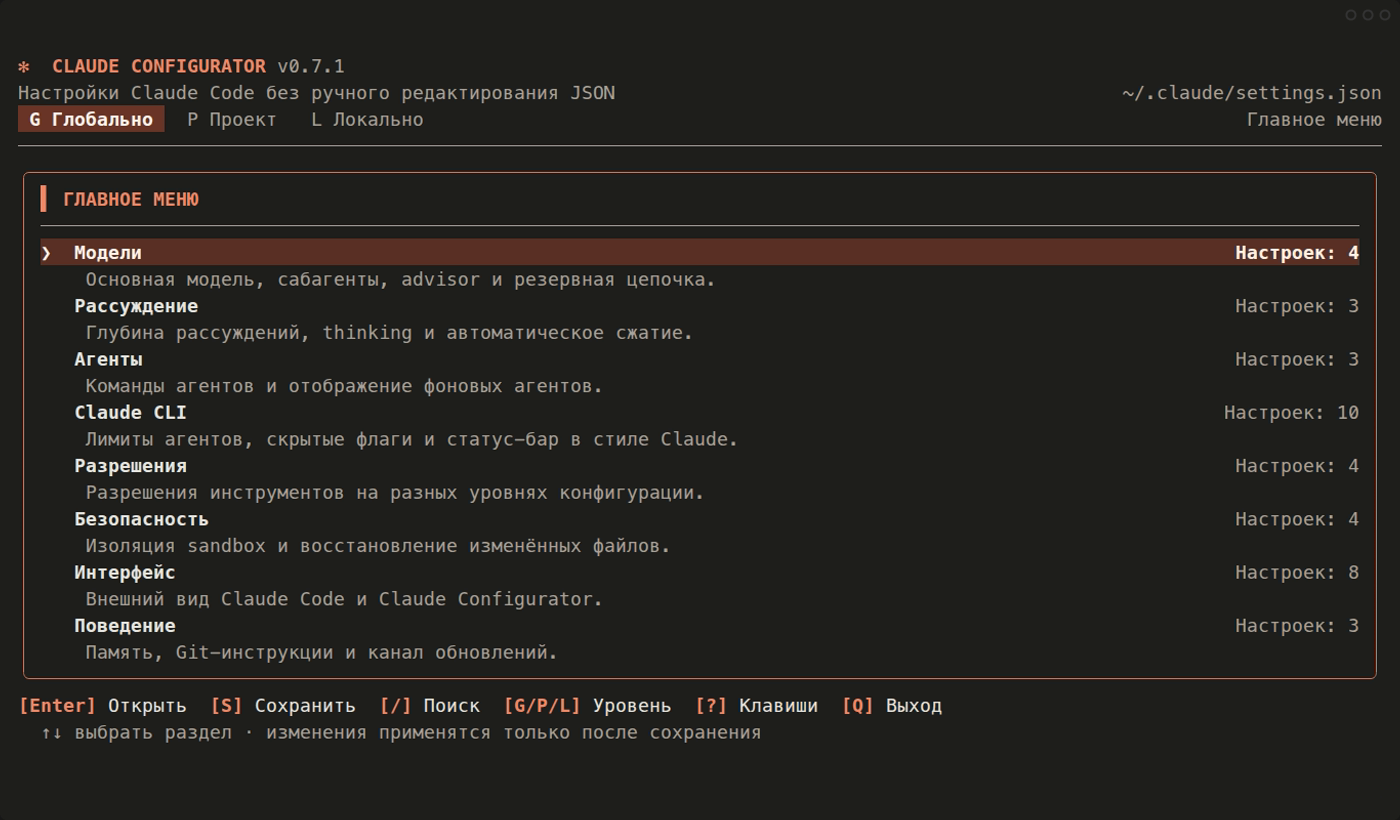
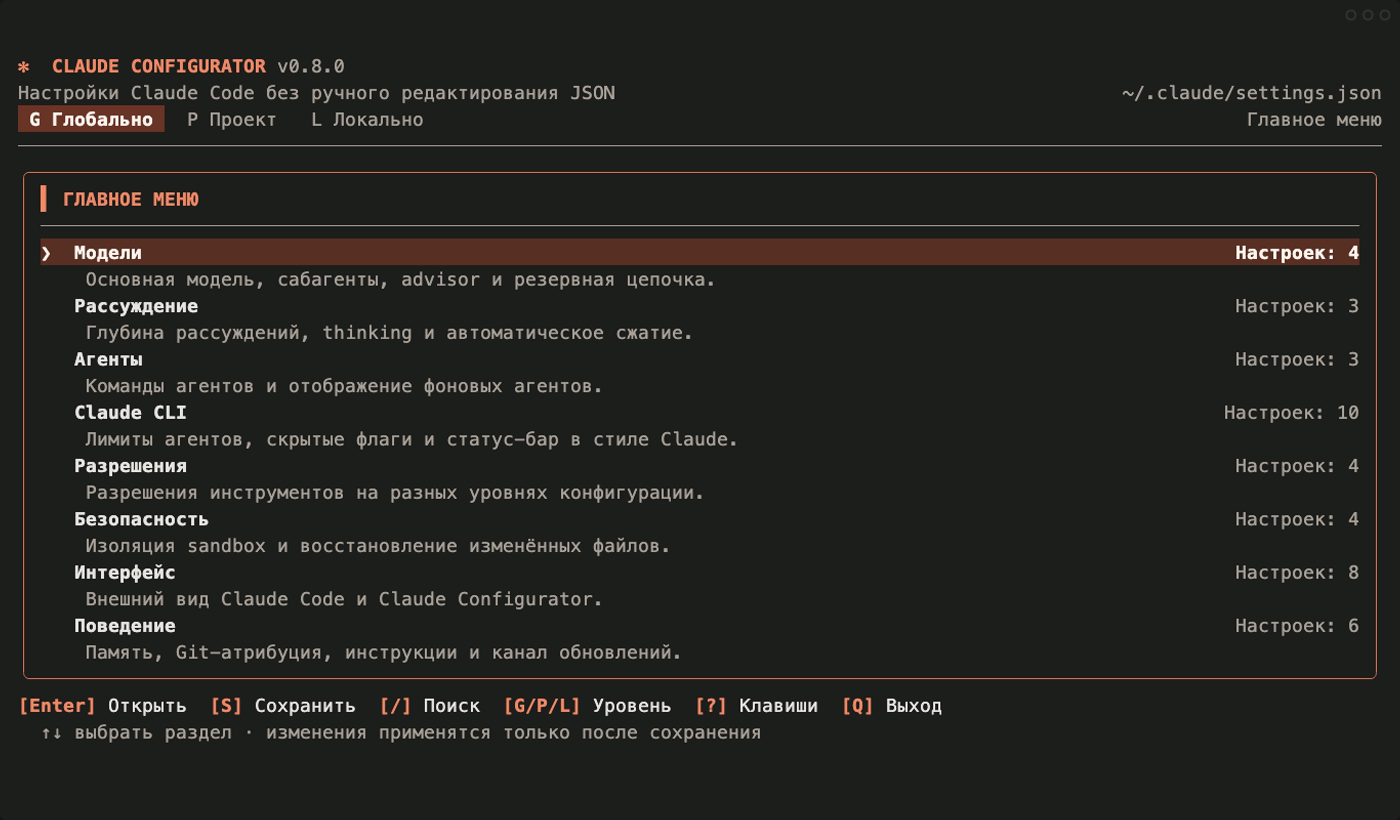
feat: add git attribution controls

diff --git a/internal/tui/locale.go b/internal/tui/locale.go
@@ -166,6 +166,9 @@ func (m *Model) optionLabel(specID, option string) string {
 		}
 		return m.tr("option.custom_value")
 	}
+	if option == "" && strings.HasPrefix(specID, "attribution-") {
+		return m.tr("option.attribution.hidden")
+	}
 	if specID == "theme" && strings.HasPrefix(option, "custom:") {
 		return m.tr("option.theme.custom", strings.TrimPrefix(option, "custom:"))
 	}
@@ -255,7 +258,7 @@ var translations = map[uiLanguage]map[string]string{
 		"category.Permissions.description": "Define tool permissions and rules across configuration scopes.",
 		"category.Safety.description":      "Manage sandbox isolation and file recovery safeguards.",
 		"category.Interface.description":   "Adjust Claude Code and Claude Configurator presentation.",
-		"category.Behavior.description":    "Tune memory, Git instructions, and the update channel.",
+		"category.Behavior.description":    "Tune memory, Git attribution, instructions, and the update channel.",
 
 		"option.inherit":                           "Default / inherit",
 		"option.custom_model":                      "Custom model ID…",
@@ -289,6 +292,7 @@ var translations = map[uiLanguage]map[string]string{
 		"option.statusline-theme.ansi":             "ANSI · terminal palette",
 		"option.statusline-theme.mono":             "Monochrome · no color",
 		"option.statusline-theme.custom":           "Custom command…",
+		"option.attribution.hidden":                "Hidden",
 		"option.new-init.1":                        "Enabled",
 		"option.permission-allow.npm-test":         "Run npm tests",
 		"option.permission-allow.go-test":          "Run all Go tests",
@@ -427,7 +431,7 @@ var translations = map[uiLanguage]map[string]string{
 		"category.Permissions.description": "Разрешения инструментов на разных уровнях конфигурации.",
 		"category.Safety.description":      "Изоляция sandbox и восстановление изменённых файлов.",
 		"category.Interface.description":   "Внешний вид Claude Code и Claude Configurator.",
-		"category.Behavior.description":    "Память, Git-инструкции и канал обновлений.",
+		"category.Behavior.description":    "Память, Git-атрибуция, инструкции и канал обновлений.",
 
 		"option.inherit":                           "По умолчанию / наследовать",
 		"option.custom_model":                      "Другая модель…",
@@ -461,6 +465,7 @@ var translations = map[uiLanguage]map[string]string{
 		"option.statusline-theme.ansi":             "ANSI · палитра терминала",
 		"option.statusline-theme.mono":             "Монохром · без цветов",
 		"option.statusline-theme.custom":           "Своя команда…",
+		"option.attribution.hidden":                "Скрыто",
 		"option.new-init.1":                        "Включён",
 		"option.permission-allow.npm-test":         "Запускать npm-тесты",
 		"option.permission-allow.go-test":          "Запускать все Go-тесты",
@@ -618,6 +623,9 @@ var translations = map[uiLanguage]map[string]string{
 		"spec.reduced-motion.label":      "Меньше анимации",
 		"spec.auto-memory.label":         "Автопамять",
 		"spec.git-instructions.label":    "Git-инструкции",
+		"spec.attribution-commit.label":  "Подпись в коммитах",
+		"spec.attribution-pr.label":      "Подпись в pull request",
+		"spec.session-url.label":         "Ссылка на сессию",
 		"spec.updates.label":             "Канал обновлений",
 
 		"spec.main-model.description":          "Модель для новых сессий Claude Code. Стабильные алиасы автоматически следуют версии вашего провайдера.",
@@ -659,6 +667,9 @@ var translations = map[uiLanguage]map[string]string{
 		"spec.reduced-motion.description":      "Уменьшить необязательную терминальную анимацию.",
 		"spec.auto-memory.description":         "Разрешить Claude Code сохранять полезный контекст проекта.",
 		"spec.git-instructions.description":    "Добавлять встроенные инструкции рабочего процесса Git.",
+		"spec.attribution-commit.description":  "Атрибуция Claude в сообщениях Git-коммитов, включая трейлер Co-Authored-By.",
+		"spec.attribution-pr.description":      "Атрибуция Claude в описаниях pull request, например Generated with Claude Code.",
+		"spec.session-url.description":         "Добавлять ссылку на сессию Claude в коммиты и pull request из cloud или Remote Control.",
 		"spec.updates.description":             "Канал автоматических обновлений Claude Code.",
 
 		"spec.main-model.purpose":          "Определяет баланс качества, скорости и стоимости в обычной работе без отдельного флага при каждом запуске.",
@@ -700,6 +711,9 @@ var translations = map[uiLanguage]map[string]string{
 		"spec.reduced-motion.purpose":      "Повышает доступность и делает медленные или удалённые терминалы спокойнее.",
 		"spec.auto-memory.purpose":         "Переносит полезные знания о проекте в следующие сессии без повторного объяснения.",
 		"spec.git-instructions.purpose":    "Оставьте включённым, если проект не заменяет встроенный Git-процесс собственными правилами.",
+		"spec.attribution-commit.purpose":  "Оставьте значение унаследованным либо полностью скройте подпись Claude в коммитах.",
+		"spec.attribution-pr.purpose":      "Оставьте значение унаследованным либо полностью скройте подпись Claude в описаниях pull request.",
+		"spec.session-url.purpose":         "Отключите, если трейлеры коммитов и описания pull request не должны раскрывать ссылку на сессию Claude.",
 		"spec.updates.purpose":             "Stable предсказуемее; latest раньше получает новые функции и исправления Claude Code.",
 	},
 	languageZH: {
@@ -722,7 +736,7 @@ var translations = map[uiLanguage]map[string]string{
 		"category.Permissions.description": "定义不同配置层级的工具权限。",
 		"category.Safety.description":      "管理沙箱隔离和文件恢复保护。",
 		"category.Interface.description":   "调整 Claude Code 和 Claude Configurator 的显示。",
-		"category.Behavior.description":    "设置记忆、Git 指令和更新频道。",
+		"category.Behavior.description":    "设置记忆、Git 署名、指令和更新频道。",
 
 		"option.inherit":                           "默认 / 继承",
 		"option.custom_model":                      "自定义模型 ID…",
@@ -756,6 +770,7 @@ var translations = map[uiLanguage]map[string]string{
 		"option.statusline-theme.ansi":             "ANSI · 终端调色板",
 		"option.statusline-theme.mono":             "单色 · 无颜色",
 		"option.statusline-theme.custom":           "自定义命令…",
+		"option.attribution.hidden":                "隐藏",
 		"option.new-init.1":                        "已启用",
 		"option.permission-allow.npm-test":         "运行 npm 测试",
 		"option.permission-allow.go-test":          "运行全部 Go 测试",
@@ -913,6 +928,9 @@ var translations = map[uiLanguage]map[string]string{
 		"spec.reduced-motion.label":      "减少动画",
 		"spec.auto-memory.label":         "自动记忆",
 		"spec.git-instructions.label":    "Git 指令",
+		"spec.attribution-commit.label":  "提交署名",
+		"spec.attribution-pr.label":      "Pull request 署名",
+		"spec.session-url.label":         "会话链接署名",
 		"spec.updates.label":             "更新频道",
 
 		"spec.main-model.description":          "新 Claude Code 会话使用的模型。稳定别名会跟随提供商的最新可用版本。",
@@ -954,6 +972,9 @@ var translations = map[uiLanguage]map[string]string{
 		"spec.reduced-motion.description":      "减少非必要的终端动画。",
 		"spec.auto-memory.description":         "允许 Claude Code 自动保存有用的项目上下文。",
 		"spec.git-instructions.description":    "包含 Claude Code 内置的 Git 工作流说明。",
+		"spec.attribution-commit.description":  "添加到 Git 提交消息中的 Claude 署名，包括 Co-Authored-By trailer。",
+		"spec.attribution-pr.description":      "添加到 pull request 描述中的 Claude 署名，例如 Generated with Claude Code。",
+		"spec.session-url.description":         "在 cloud 或 Remote Control 会话创建的提交和 pull request 中附加 Claude 会话链接。",
 		"spec.updates.description":             "Claude Code 自动更新频道。",
 
 		"spec.main-model.purpose":          "决定日常工作的能力、速度和成本，无需每次启动都传入模型参数。",
@@ -995,6 +1016,9 @@ var translations = map[uiLanguage]map[string]string{
 		"spec.reduced-motion.purpose":      "提升可访问性，并让较慢或远程终端更平静。",
 		"spec.auto-memory.purpose":         "把有用的项目知识带到后续会话，无需重复说明。",
 		"spec.git-instructions.purpose":    "如果项目没有自己的 Git 工作流规则，建议保持开启。",
+		"spec.attribution-commit.purpose":  "保留继承的 Claude 默认值，或隐藏提交中的全部 Claude 署名。",
+		"spec.attribution-pr.purpose":      "保留继承的 Claude 默认值，或隐藏 pull request 描述中的全部 Claude 署名。",
+		"spec.session-url.purpose":         "如果提交 trailer 和 pull request 描述不应暴露 Claude 会话链接，请关闭此项。",
 		"spec.updates.purpose":             "stable 更可预测；latest 更早获得 Claude Code 新功能和修复。",
 	},
 }

diff --git a/internal/catalog/catalog.go b/internal/catalog/catalog.go
@@ -29,6 +29,7 @@ type Spec struct {
 	Danger        map[string]string
 	App           bool
 	Hidden        bool
+	DefaultTrue   bool
 }
 
 func (s Spec) Dangerous(value any) (string, bool) {
@@ -47,7 +48,7 @@ var Specs = []Spec{
 
 	{ID: "effort", Path: "effortLevel", Label: "Reasoning effort", Category: "Reasoning", Kind: Enum, Options: []string{"low", "medium", "high", "xhigh"}, Description: "Persistent adaptive reasoning effort for models that support it.", Purpose: "Lower levels answer faster and cheaper; higher levels spend more reasoning on difficult tasks."},
 	{ID: "always-thinking", Path: "alwaysThinkingEnabled", Label: "Extended thinking", Category: "Reasoning", Kind: Boolean, Description: "Enable extended thinking by default on supported models.", Purpose: "Improve complex reasoning when extra latency and token use are acceptable."},
-	{ID: "auto-compact", Path: "autoCompactEnabled", Label: "Auto compact", Category: "Reasoning", Kind: Boolean, Description: "Summarize and compact a conversation automatically near its context limit.", Purpose: "Prevent long sessions from stopping at the limit, with the trade-off that a summary can omit detail."},
+	{ID: "auto-compact", Path: "autoCompactEnabled", Label: "Auto compact", Category: "Reasoning", Kind: Boolean, DefaultTrue: true, Description: "Summarize and compact a conversation automatically near its context limit.", Purpose: "Prevent long sessions from stopping at the limit, with the trade-off that a summary can omit detail."},
 
 	{ID: "agent-teams", Path: "env.CLAUDE_CODE_EXPERIMENTAL_AGENT_TEAMS", Label: "Agent teams", Category: "Agents", Kind: Enum, Options: []string{"0", "1"}, Description: "Enable the experimental feature that lets several Claude agents coordinate on one task.", Purpose: "Use it when independent parts of a task can run in parallel; experimental behavior can still change."},
 	{ID: "teammate-mode", Path: "teammateMode", Label: "Teammate display", Category: "Agents", Kind: Enum, Options: []string{"in-process", "auto", "tmux", "iterm2"}, Description: "Choose where agent-team teammates are displayed.", Purpose: "Keep agents inline for a simple terminal, or use separate panes when you want to monitor each teammate."},
@@ -84,8 +85,11 @@ var Specs = []Spec{
 	{ID: "language", Path: "language", Label: "Claude response language", Category: "Interface", Kind: String, Description: "Preferred language for Claude responses, dictation, and terminal session titles.", Purpose: "Avoid repeating the same language instruction in every prompt."},
 	{ID: "reduced-motion", Path: "prefersReducedMotion", Label: "Reduced motion", Category: "Interface", Kind: Boolean, Description: "Reduce non-essential spinners, shimmer, and terminal animation.", Purpose: "Improve accessibility and make remote or slow terminals feel calmer."},
 
-	{ID: "auto-memory", Path: "autoMemoryEnabled", Label: "Auto memory", Category: "Behavior", Kind: Boolean, Description: "Allow Claude Code to save useful project context automatically.", Purpose: "Carry project knowledge into later sessions without explaining it again."},
-	{ID: "git-instructions", Path: "includeGitInstructions", Label: "Git instructions", Category: "Behavior", Kind: Boolean, Description: "Include Claude Code's built-in commit and pull-request workflow guidance.", Purpose: "Keep it unless the project already supplies its own Git workflow rules."},
+	{ID: "auto-memory", Path: "autoMemoryEnabled", Label: "Auto memory", Category: "Behavior", Kind: Boolean, DefaultTrue: true, Description: "Allow Claude Code to save useful project context automatically.", Purpose: "Carry project knowledge into later sessions without explaining it again."},
+	{ID: "git-instructions", Path: "includeGitInstructions", Label: "Git instructions", Category: "Behavior", Kind: Boolean, DefaultTrue: true, Description: "Include Claude Code's built-in commit and pull-request workflow guidance.", Purpose: "Keep it unless the project already supplies its own Git workflow rules."},
+	{ID: "attribution-commit", Path: "attribution.commit", Label: "Commit attribution", Category: "Behavior", Kind: Enum, Options: []string{""}, Description: "Claude attribution added to Git commit messages, including the Co-Authored-By trailer.", Purpose: "Choose the inherited Claude default or hide all Claude attribution from commits."},
+	{ID: "attribution-pr", Path: "attribution.pr", Label: "Pull request attribution", Category: "Behavior", Kind: Enum, Options: []string{""}, Description: "Claude attribution added to pull request descriptions, such as Generated with Claude Code.", Purpose: "Choose the inherited Claude default or hide all Claude attribution from pull request bodies."},
+	{ID: "session-url", Path: "attribution.sessionUrl", Label: "Session link attribution", Category: "Behavior", Kind: Boolean, DefaultTrue: true, Description: "Append a Claude session link to commits and pull requests created from cloud or Remote Control sessions.", Purpose: "Turn this off when commit trailers and pull request descriptions must not expose a Claude session link."},
 	{ID: "updates", Path: "autoUpdatesChannel", Label: "Update channel", Category: "Behavior", Kind: Enum, Options: []string{"stable", "latest"}, Description: "Choose the Claude Code automatic update channel.", Purpose: "Stable favors predictability; latest delivers new features and fixes sooner."},
 }
 

diff --git a/internal/tui/model_test.go b/internal/tui/model_test.go
@@ -280,6 +280,78 @@ func TestSubagentPickerCanResetToInheritanceAndSelectFable(t *testing.T) {
 	}
 }
 
+func TestAttributionCanBeHiddenAndReset(t *testing.T) {
+	m := testModel(t)
+	m.category = slices.Index(catalog.Categories(), "Behavior")
+	m.focus = 1
+
+	for _, item := range []struct {
+		id   string
+		path string
+	}{
+		{"attribution-commit", "attribution.commit"},
+		{"attribution-pr", "attribution.pr"},
+	} {
+		selectSpec(t, m, item.id)
+		press(m, special(tea.KeyEnter))
+		if m.screen != editChoice {
+			t.Fatalf("%s editor screen = %v, want editChoice", item.id, m.screen)
+		}
+		selectChoice(t, m, "")
+		press(m, special(tea.KeyEnter))
+		if got, ok := config.Get(m.drafts[config.Global], item.path); !ok || got != "" {
+			t.Fatalf("%s = %#v, %v; want stored empty string", item.path, got, ok)
+		}
+	}
+
+	selectSpec(t, m, "session-url")
+	press(m, special(tea.KeyEnter))
+	if got, ok := config.Get(m.drafts[config.Global], "attribution.sessionUrl"); !ok || got != false {
+		t.Fatalf("attribution.sessionUrl = %#v, %v; want false", got, ok)
+	}
+
+	diff := strings.Join(m.diffLines(), "\n")
+	for _, line := range []string{
+		`+ attribution.commit = ""`,
+		`+ attribution.pr = ""`,
+		`+ attribution.sessionUrl = false`,
+	} {
+		if !strings.Contains(diff, line) {
+			t.Fatalf("diff is missing %q: %s", line, diff)
+		}
+	}
+
+	press(m, textKey("s"))
+	press(m, special(tea.KeyEnter))
+	raw, err := os.ReadFile(m.workspace.Paths.Global)
+	if err != nil {
+		t.Fatal(err)
+	}
+	var saved map[string]any
+	if err := json.Unmarshal(raw, &saved); err != nil {
+		t.Fatal(err)
+	}
+	for _, path := range []string{"attribution.commit", "attribution.pr"} {
+		if got, ok := config.Get(saved, path); !ok || got != "" {
+			t.Fatalf("saved %s = %#v, %v", path, got, ok)
+		}
+	}
+	if got, ok := config.Get(saved, "attribution.sessionUrl"); !ok || got != false {
+		t.Fatalf("saved attribution.sessionUrl = %#v, %v", got, ok)
+	}
+
+	for _, id := range []string{"attribution-commit", "attribution-pr", "session-url"} {
+		selectSpec(t, m, id)
+		press(m, textKey("u"))
+	}
+	if _, ok := saved["attribution"]; !ok {
+		t.Fatal("test setup did not save the attribution object")
+	}
+	if _, ok := m.drafts[config.Global]["attribution"]; ok {
+		t.Fatal("resetting all attribution fields left an empty attribution object")
+	}
+}
+
 func TestThemeUsesBuiltInChoicePicker(t *testing.T) {
 	m := testModel(t)
 	themeDir := filepath.Join(filepath.Dir(m.workspace.Paths.Global), "themes")

diff --git a/internal/tui/model.go b/internal/tui/model.go
@@ -484,7 +484,7 @@ func (m *Model) choiceIncludesInherit() bool {
 }
 
 func (m *Model) toggle(spec catalog.Spec) {
-	current := false
+	current := spec.DefaultTrue
 	if value, _, ok := m.effective(spec); ok {
 		current, _ = value.(bool)
 	}
@@ -972,6 +972,9 @@ func (m *Model) diffLines() []string {
 func formatValue(value any) string {
 	switch typed := value.(type) {
 	case string:
+		if typed == "" {
+			return `""`
+		}
 		return typed
 	case bool:
 		if typed {

diff --git a/README.zh-CN.md b/README.zh-CN.md
@@ -115,6 +115,7 @@ claude-config --version
 - 为 `permissions.allow`、`ask` 和 `deny` 提供本地化预设，并在选择前
   显示准确的 Claude Code 规则。
 - 配置推理、代理、权限、沙箱、界面和行为。
+- 分别控制提交、pull request 和 Claude 会话链接署名。
 - 使用类型化控件设置嵌套代理深度、子代理总数/并发数、工具并发、
   交互式 `/init` 和共享任务列表。
 - Claude 风格状态栏分别显示主模型、子代理模型和 advisor，并显示剩余上下文、
@@ -184,6 +185,28 @@ gateway 或提供商特定部署；常规模型选择不会打开字符串输入
 
 所有更改在按下 **[S] 保存**前保持暂存。保存按钮始终可见，会显示更改
 数量，并在写入前打开 diff。
+
+### Git 署名
+
+在**行为**分类中可以配置当前三项
+[Claude Code 署名设置](https://code.claude.com/docs/en/settings#attribution-settings)。
+将提交署名和 pull request 署名设为**隐藏**，再关闭会话链接，即可移除
+全部内置署名：
+
+```json
+{
+  "attribution": {
+    "commit": "",
+    "pr": "",
+    "sessionUrl": false
+  }
+}
+```
+
+选择**默认 / 继承**会删除对应键并恢复作用域继承。Configurator 不会写入
+已弃用的 `includeCoAuthoredBy`。
+
+![提交署名选择器](docs/screenshots/zh-CN/tui-attribution.png)
 
 ### Claude Code 主题
 

diff --git a/README.md b/README.md
@@ -118,6 +118,7 @@ claude-config --version
 - Ready, localized templates for `permissions.allow`, `ask`, and `deny`, with
   the exact Claude Code rule shown before it is selected.
 - Reasoning, agents, permissions, sandbox, interface, and behavior settings.
+- Separate controls for commit, pull request, and Claude session-link attribution.
 - Typed controls for nested-agent depth, total/concurrent subagent caps, tool
   concurrency, interactive `/init`, and shared task lists.
 - Claude-style status bar themes with primary/subagent/advisor model roles,
@@ -193,6 +194,28 @@ panel and action bar.
 
 Changes remain staged until **[S] Save**. Save is always visible, shows the
 number of changed settings, and opens a diff before writing the file.
+
+### Git attribution
+
+Open **Behavior** to control the three current
+[Claude Code attribution settings](https://code.claude.com/docs/en/settings#attribution-settings).
+Choose **Hidden** for commit and pull request attribution, then turn off the
+session link to remove every built-in byline:
+
+```json
+{
+  "attribution": {
+    "commit": "",
+    "pr": "",
+    "sessionUrl": false
+  }
+}
+```
+
+**Default / inherit** removes the selected key and restores scope inheritance.
+The deprecated `includeCoAuthoredBy` key is not written.
+
+![Commit attribution picker](docs/screenshots/en/tui-attribution.png)
 
 ### Claude Code theme
 

diff --git a/CHANGELOG.md b/CHANGELOG.md
@@ -1,5 +1,16 @@
 # Changelog
 
+## v0.8.0 — 2026-08-03
+
+- Added localized controls for Claude Code commit attribution, pull request
+  attribution, and cloud/Remote Control session links.
+- Added a clear **Hidden** choice that writes the documented empty-string value;
+  reset still removes the key and restores inheritance.
+- Corrected first-toggle behavior for Claude settings whose built-in default is
+  enabled, including auto compact, auto memory, Git instructions, and session links.
+- Documented the current `attribution` object and stopped recommending the
+  deprecated `includeCoAuthoredBy` setting.
+
 ## v0.7.1 — 2026-07-26
 
 - Kept the Unix self-update restart in the foreground terminal process so
